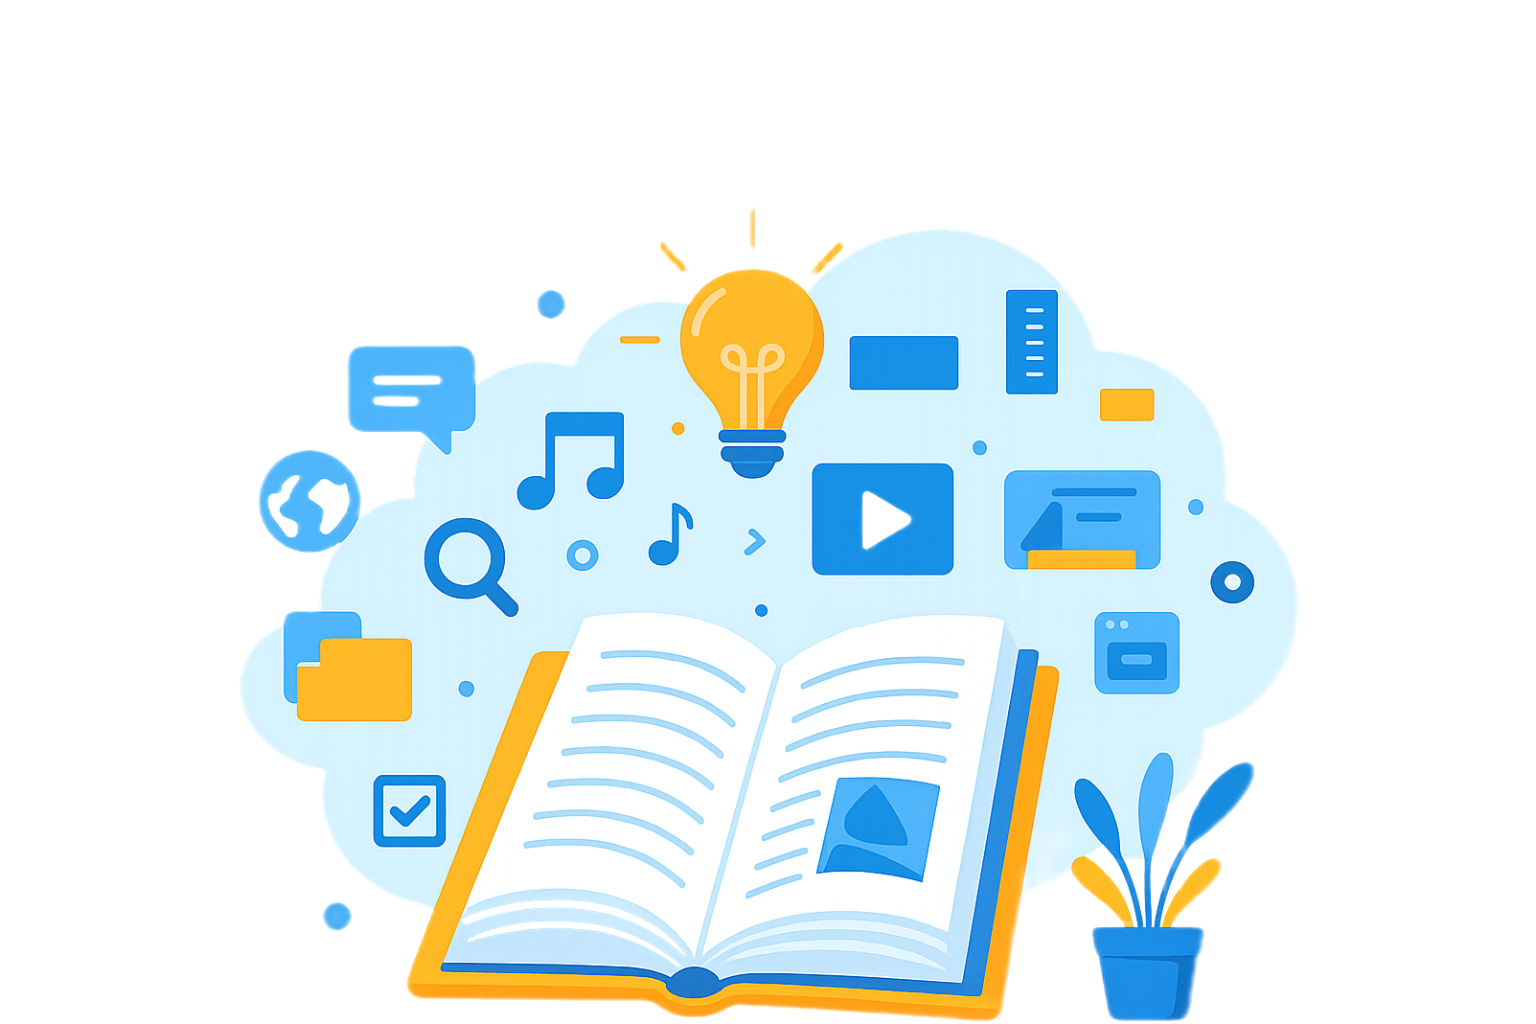
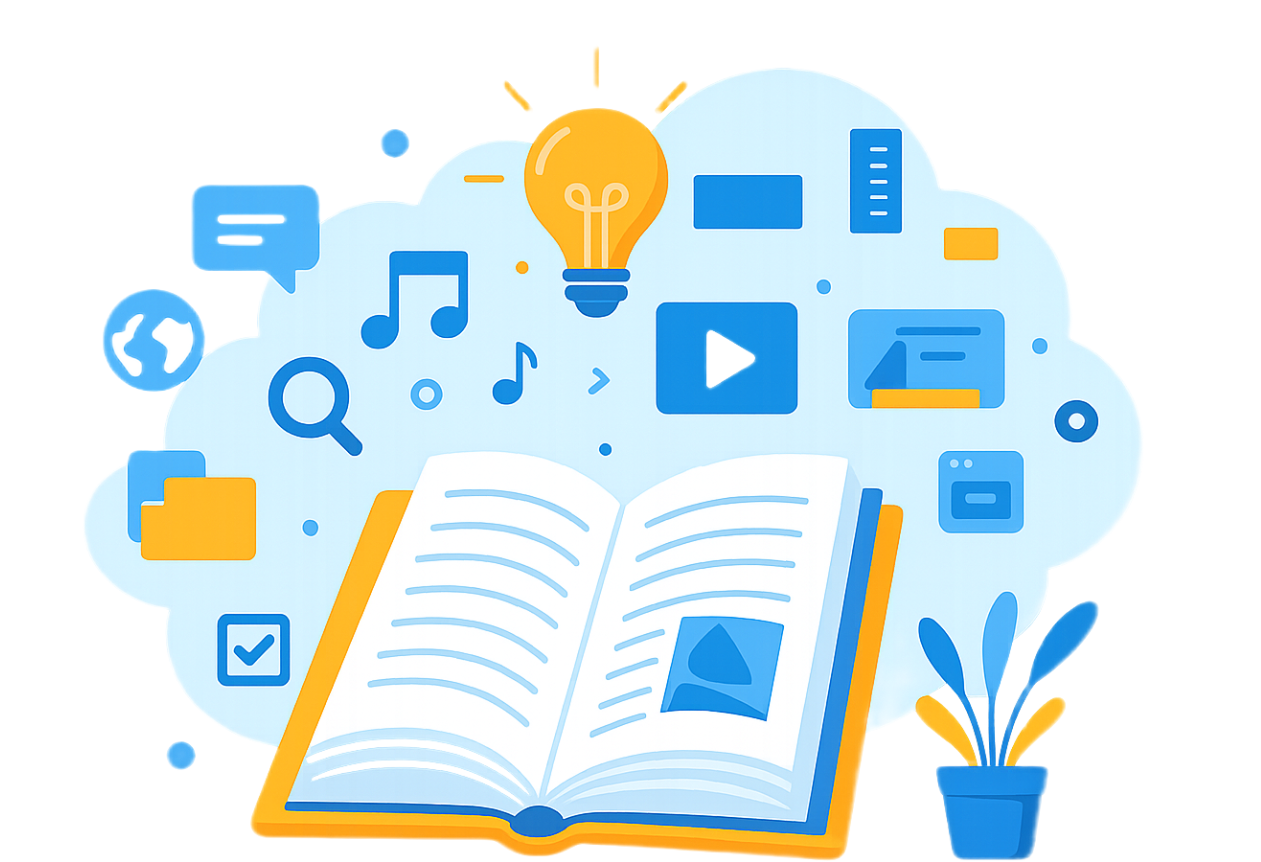
image change

diff --git a/src/app/admin/olympiads/questions/page.tsx b/src/app/admin/olympiads/questions/page.tsx
@@ -965,7 +965,7 @@ function AdminQuestionsContent() {
                    placeholder="მოძებნა: კითხვა, საგანი, მასწავლებელი, სკოლა, თავი (მაგ: 2), პარაგრაფი (მაგ: 1.2), კლასი (მაგ: 10 კლასი), რაუნდი (მაგ: 1 რაუნდი), ქულები, ტიპი..."
                    value={searchTerm}
                    onChange={(e) => setSearchTerm(e.target.value)}
-                   className="w-full px-4 py-2 border border-gray-300 rounded-md focus:outline-none focus:ring-2  md:text-[18px] text-[16px]"
+                   className="w-full md:text-[16px] text-[14px] text-black placeholder:text-black px-4 py-2 border border-gray-300 rounded-md focus:outline-none focus:ring-2  md:text-[18px] text-[16px]"
                  />
                  {searchTerm && (
                    <div className="absolute right-3 top-1/2 transform -translate-y-1/2 text-sm text-gray-500">
@@ -979,7 +979,7 @@ function AdminQuestionsContent() {
               <select
                 value={selectedSubject || ''}
                 onChange={(e) => setSelectedSubject(e.target.value)}
-                className="w-full px-4 py-2 border border-gray-300 rounded-md focus:outline-none focus:ring-2  md:text-[18px] text-[16px]"
+                className="w-full md:text-[16px] text-[14px] text-black placeholder:text-black px-4 py-2 border border-gray-300 rounded-md focus:outline-none focus:ring-2  md:text-[18px] text-[16px]"
               >
                 <option value="">ყველა საგანი</option>
                 {subjects.map(subject => (
@@ -991,7 +991,7 @@ function AdminQuestionsContent() {
               <select
                 value={selectedGrade || ''}
                 onChange={(e) => setSelectedGrade(e.target.value)}
-                className="w-full px-4 py-2 border border-gray-300 rounded-md focus:outline-none focus:ring-2  md:text-[18px] text-[16px]"
+                className="w-full md:text-[16px] text-[14px] text-black placeholder:text-black px-4 py-2 border border-gray-300 rounded-md focus:outline-none focus:ring-2  md:text-[18px] text-[16px]"
               >
                 <option value="">ყველა კლასი</option>
                 {[7, 8, 9, 10, 11, 12].map(grade => (
@@ -1003,7 +1003,7 @@ function AdminQuestionsContent() {
               <select
                 value={selectedRound || ''}
                 onChange={(e) => setSelectedRound(e.target.value)}
-                className="w-full px-4 py-2 border border-gray-300 rounded-md focus:outline-none focus:ring-2  md:text-[18px] text-[16px]"
+                className="w-full md:text-[16px] text-[14px] text-black placeholder:text-black px-4 py-2 border border-gray-300 rounded-md focus:outline-none focus:ring-2  md:text-[18px] text-[16px]"
               >
                 <option value="">ყველა რაუნდი</option>
                 {[1, 2, 3].map(round => (
@@ -1643,7 +1643,7 @@ function AdminQuestionsContent() {
                           type="checkbox"
                           checked={formData.useImageOptions}
                           onChange={(e) => setFormData(prev => ({ ...prev, useImageOptions: e.target.checked }))}
-                          className="h-4 w-4 text-blue-600 border-gray-300 rounded"
+                          className="h-4 w-4 md:text-[16px] text-[14px] text-black placeholder:text-black border-gray-300 rounded"
                         />
                         <span className="text-black md:text-[16px] text-[14px] font-medium">
                           გამოიყენეთ სურათები პასუხის ვარიანტებად

diff --git a/src/component/Hero.tsx b/src/component/Hero.tsx
@@ -6,9 +6,9 @@ import Image from 'next/image'
 
 const Hero: React.FC = () => {
   return (
-    <section className="relative h-[100vh] bg-gray-50 text-white overflow-hidden">
+    <section className="relative h-[80vh] bg-gray-50 text-white overflow-hidden">
       {/* Content */}
-      <div className="relative mx-auto max-w-7xl px-6 lg:px-12 py-24 flex items-center h-full">
+      <div className="relative mx-auto max-w-7xl  flex items-center h-full">
         <div className="flex items-center justify-between w-full">
           {/* Text Content - Left Side */}
           <div className="max-w-2xl text-black z-10">
@@ -31,7 +31,7 @@ const Hero: React.FC = () => {
           </div>
 
           {/* Image - Right Side */}
-          <div className="relative w-[90%] h-full flex items-center justify-center">
+          <div className="relative w-[100%] h-full flex items-center justify-center">
             <div className="relative w-full h-[80vh] rounded-2xl overflow-hidden ">
               <Image
                 src="/hero/hero.png"
